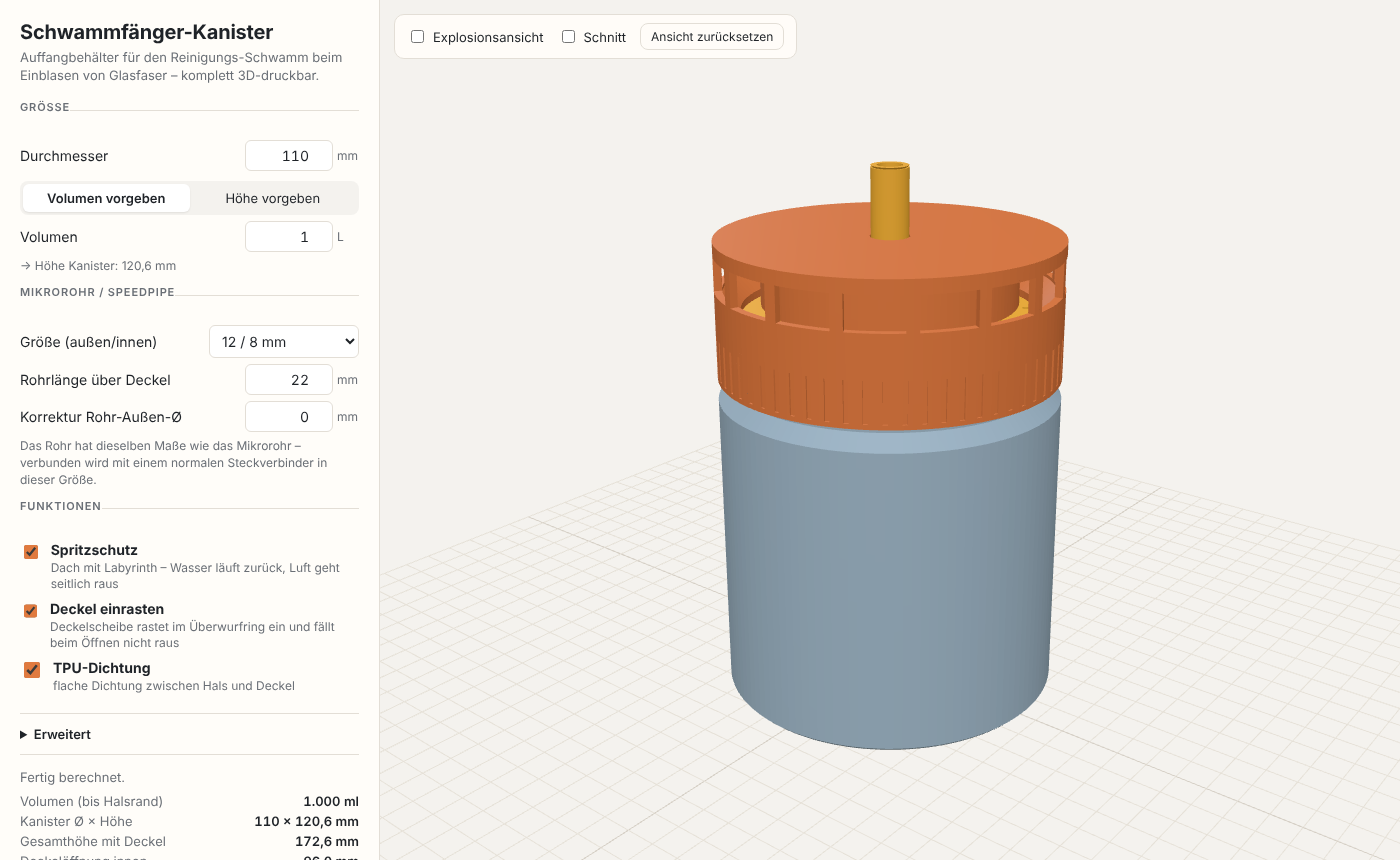
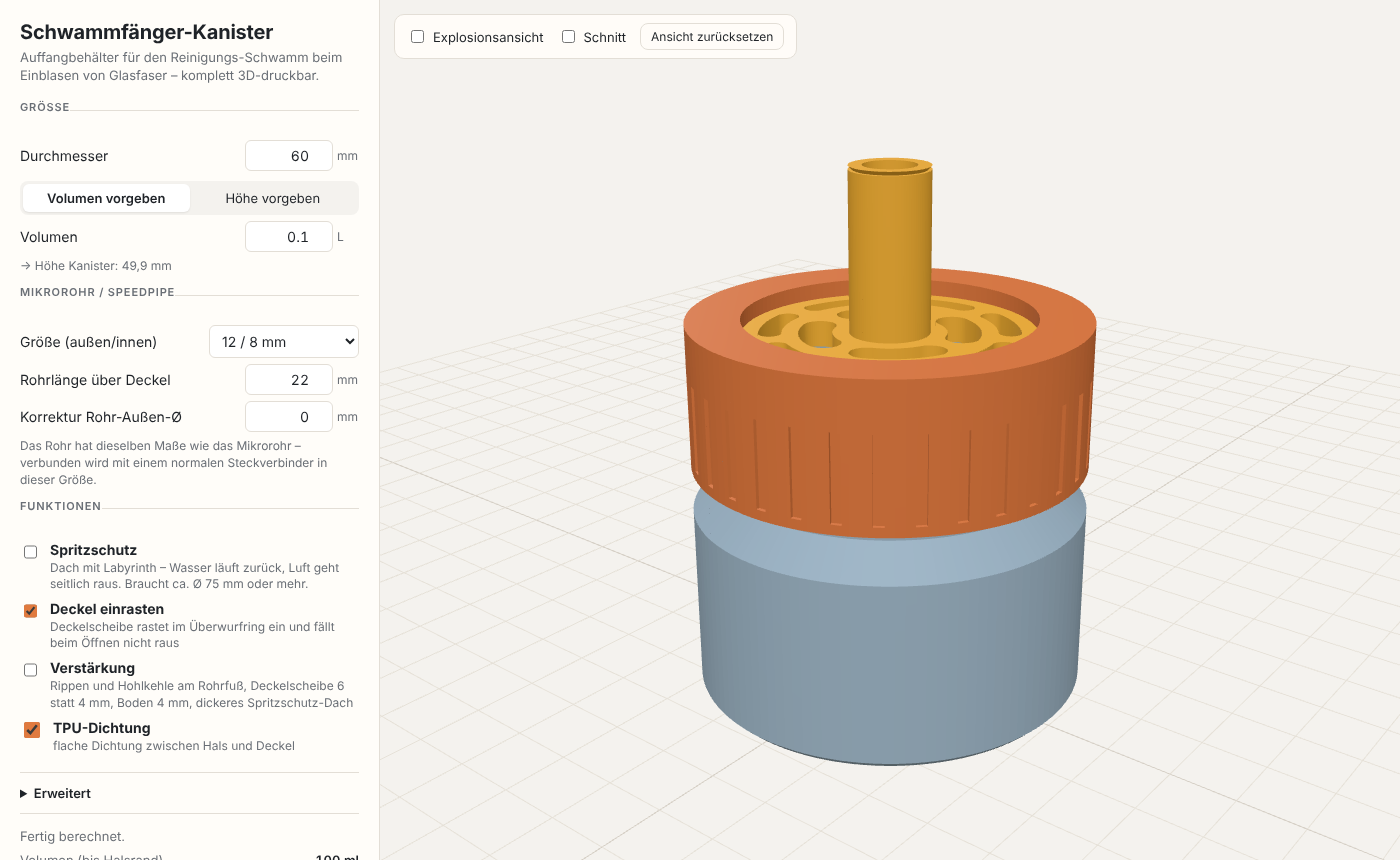
Voreinstellung: kleiner Kanister (100 ml, Ø 60 mm, ohne Spritzschutz)
Bei Ø 60 mm reicht die Entlüftung mit Spritzschutz nicht (2,9× statt ≥10×),
ohne Spritzschutz 11×. Hinweis im Formular ergänzt, Screenshot aktualisiert.

Claude-Session: https://claude.ai/code/session_01ABNmNRAp4kYZUXfQ83VaBd

diff --git a/index.html b/index.html
@@ -21,17 +21,17 @@
       <fieldset>
         <legend>Größe</legend>
         <label class="row">Durchmesser
-          <span class="inp"><input type="number" id="diameterMm" min="60" max="220" step="1" value="110"><em>mm</em></span>
+          <span class="inp"><input type="number" id="diameterMm" min="60" max="220" step="1" value="60"><em>mm</em></span>
         </label>
         <div class="seg" role="radiogroup">
           <label><input type="radio" name="mode" value="volume" checked><span>Volumen vorgeben</span></label>
           <label><input type="radio" name="mode" value="height"><span>Höhe vorgeben</span></label>
         </div>
         <label class="row" id="rowVolume">Volumen
-          <span class="inp"><input type="number" id="volumeL" min="0.05" max="10" step="0.05" value="1"><em>L</em></span>
+          <span class="inp"><input type="number" id="volumeL" min="0.05" max="10" step="0.05" value="0.1"><em>L</em></span>
         </label>
         <label class="row hidden" id="rowHeight">Höhe Kanister
-          <span class="inp"><input type="number" id="heightMm" min="30" max="400" step="1" value="120"><em>mm</em></span>
+          <span class="inp"><input type="number" id="heightMm" min="30" max="400" step="1" value="80"><em>mm</em></span>
         </label>
         <p class="hint" id="sizeHint"></p>
       </fieldset>
@@ -56,8 +56,8 @@
 
       <fieldset>
         <legend>Funktionen</legend>
-        <label class="check"><input type="checkbox" id="splash" checked>
-          <span><b>Spritzschutz</b><small>Dach mit Labyrinth – Wasser läuft zurück, Luft geht seitlich raus</small></span></label>
+        <label class="check"><input type="checkbox" id="splash">
+          <span><b>Spritzschutz</b><small>Dach mit Labyrinth – Wasser läuft zurück, Luft geht seitlich raus. Braucht ca. Ø 75 mm oder mehr.</small></span></label>
         <label class="check"><input type="checkbox" id="snap" checked>
           <span><b>Deckel einrasten</b><small>Deckelscheibe rastet im Überwurfring ein und fällt beim Öffnen nicht raus</small></span></label>
         <label class="check"><input type="checkbox" id="reinforce">

diff --git a/src/geometry.js b/src/geometry.js
@@ -12,14 +12,14 @@ export const DUCTS = [
 
 export const DEFAULTS = {
   mode: 'volume',        // 'volume' | 'height'
-  volumeMl: 1000,        // Zielvolumen bis Halsoberkante
-  heightMm: 120,         // Körperhöhe (Boden bis Halsoberkante) im Modus 'height'
-  diameterMm: 110,       // Außendurchmesser Körper (= Überwurfring)
+  volumeMl: 100,         // Zielvolumen bis Halsoberkante
+  heightMm: 80,          // Körperhöhe (Boden bis Halsoberkante) im Modus 'height'
+  diameterMm: 60,        // Außendurchmesser Körper (= Überwurfring)
   wall: 2.4,             // Wandstärke Körper
   ductOd: 12, ductId: 8, // Mikrorohr
   tubeFree: 22,          // freie Rohrlänge über dem Deckel (Einstecktiefe Verbinder)
   tubeOdAdjust: 0,       // Korrektur Rohr-Außendurchmesser (Druckertoleranz)
-  splash: true,          // Spritzschutz-Dach mit Labyrinth
+  splash: false,         // Spritzschutz-Dach mit Labyrinth (ab ca. Ø75 mm sinnvoll)
   snap: true,            // Deckelscheibe rastet im Überwurfring ein
   reinforce: false,      // Verstärkung: Rippen am Rohrfuß, dickere Scheibe, Boden und Dach
   gasket: true,          // TPU-Dichtung erzeugen

diff --git a/README.md b/README.md
@@ -10,6 +10,7 @@ Im Konfigurator stellst du Größe, Rohrmaß und Funktionen ein und lädst die f
 
 ## Funktionen
 
+- **Voreinstellung:** der kleine Kanister mit 100 ml, Ø 60 mm und Rohr 12/8.
 - **Größe:** Durchmesser frei wählbar, dazu entweder das **Volumen** (die Höhe wird ausgerechnet) oder die **Höhe** (das Volumen wird angezeigt).
 - **Mikrorohr-Größen:** alle gängigen Maße von 5/3,5 bis 20/16 mm, zusätzlich eigene Maße möglich. Das Rohr am Deckel hat dieselben Maße wie das Mikrorohr, verbunden wird mit einem normalen Steckverbinder in Rohrgröße.
 - **Spritzschutz** (optional): ein Dach mit Labyrinth. Das Wasser läuft zurück in den Kanister, die Luft geht seitlich raus.
